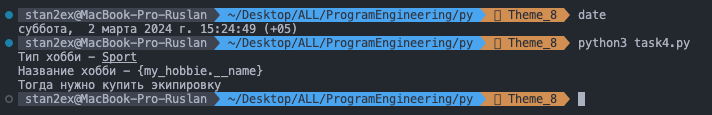
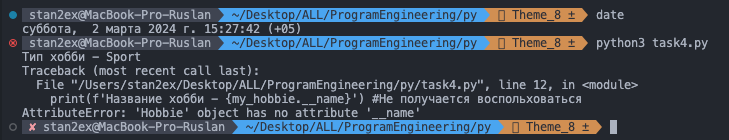
fix

diff --git a/py/task4.py b/py/task4.py
@@ -9,5 +9,5 @@ class Hobbie:
 
 my_hobbie = Hobbie("Sport", "Snowboarding")
 print(f'Тип хобби - {my_hobbie._type}')
-print('Название хобби - {my_hobbie.__name}') #Не получается воспольховаться
+print(f'Название хобби - {my_hobbie.__name}') #Не получается воспольховаться
 my_hobbie.buy()

diff --git a/README.md b/README.md
@@ -106,7 +106,7 @@ class Hobbie:
 
 my_hobbie = Hobbie("Sport", "Snowboarding")
 print(f'Тип хобби - {my_hobbie._type}')
-print('Название хобби - {my_hobbie.__name}') #Не получается воспольховаться
+print(f'Название хобби - {my_hobbie.__name}') #Не получается воспольховаться
 my_hobbie.buy()
 ```
 ### Результат.
